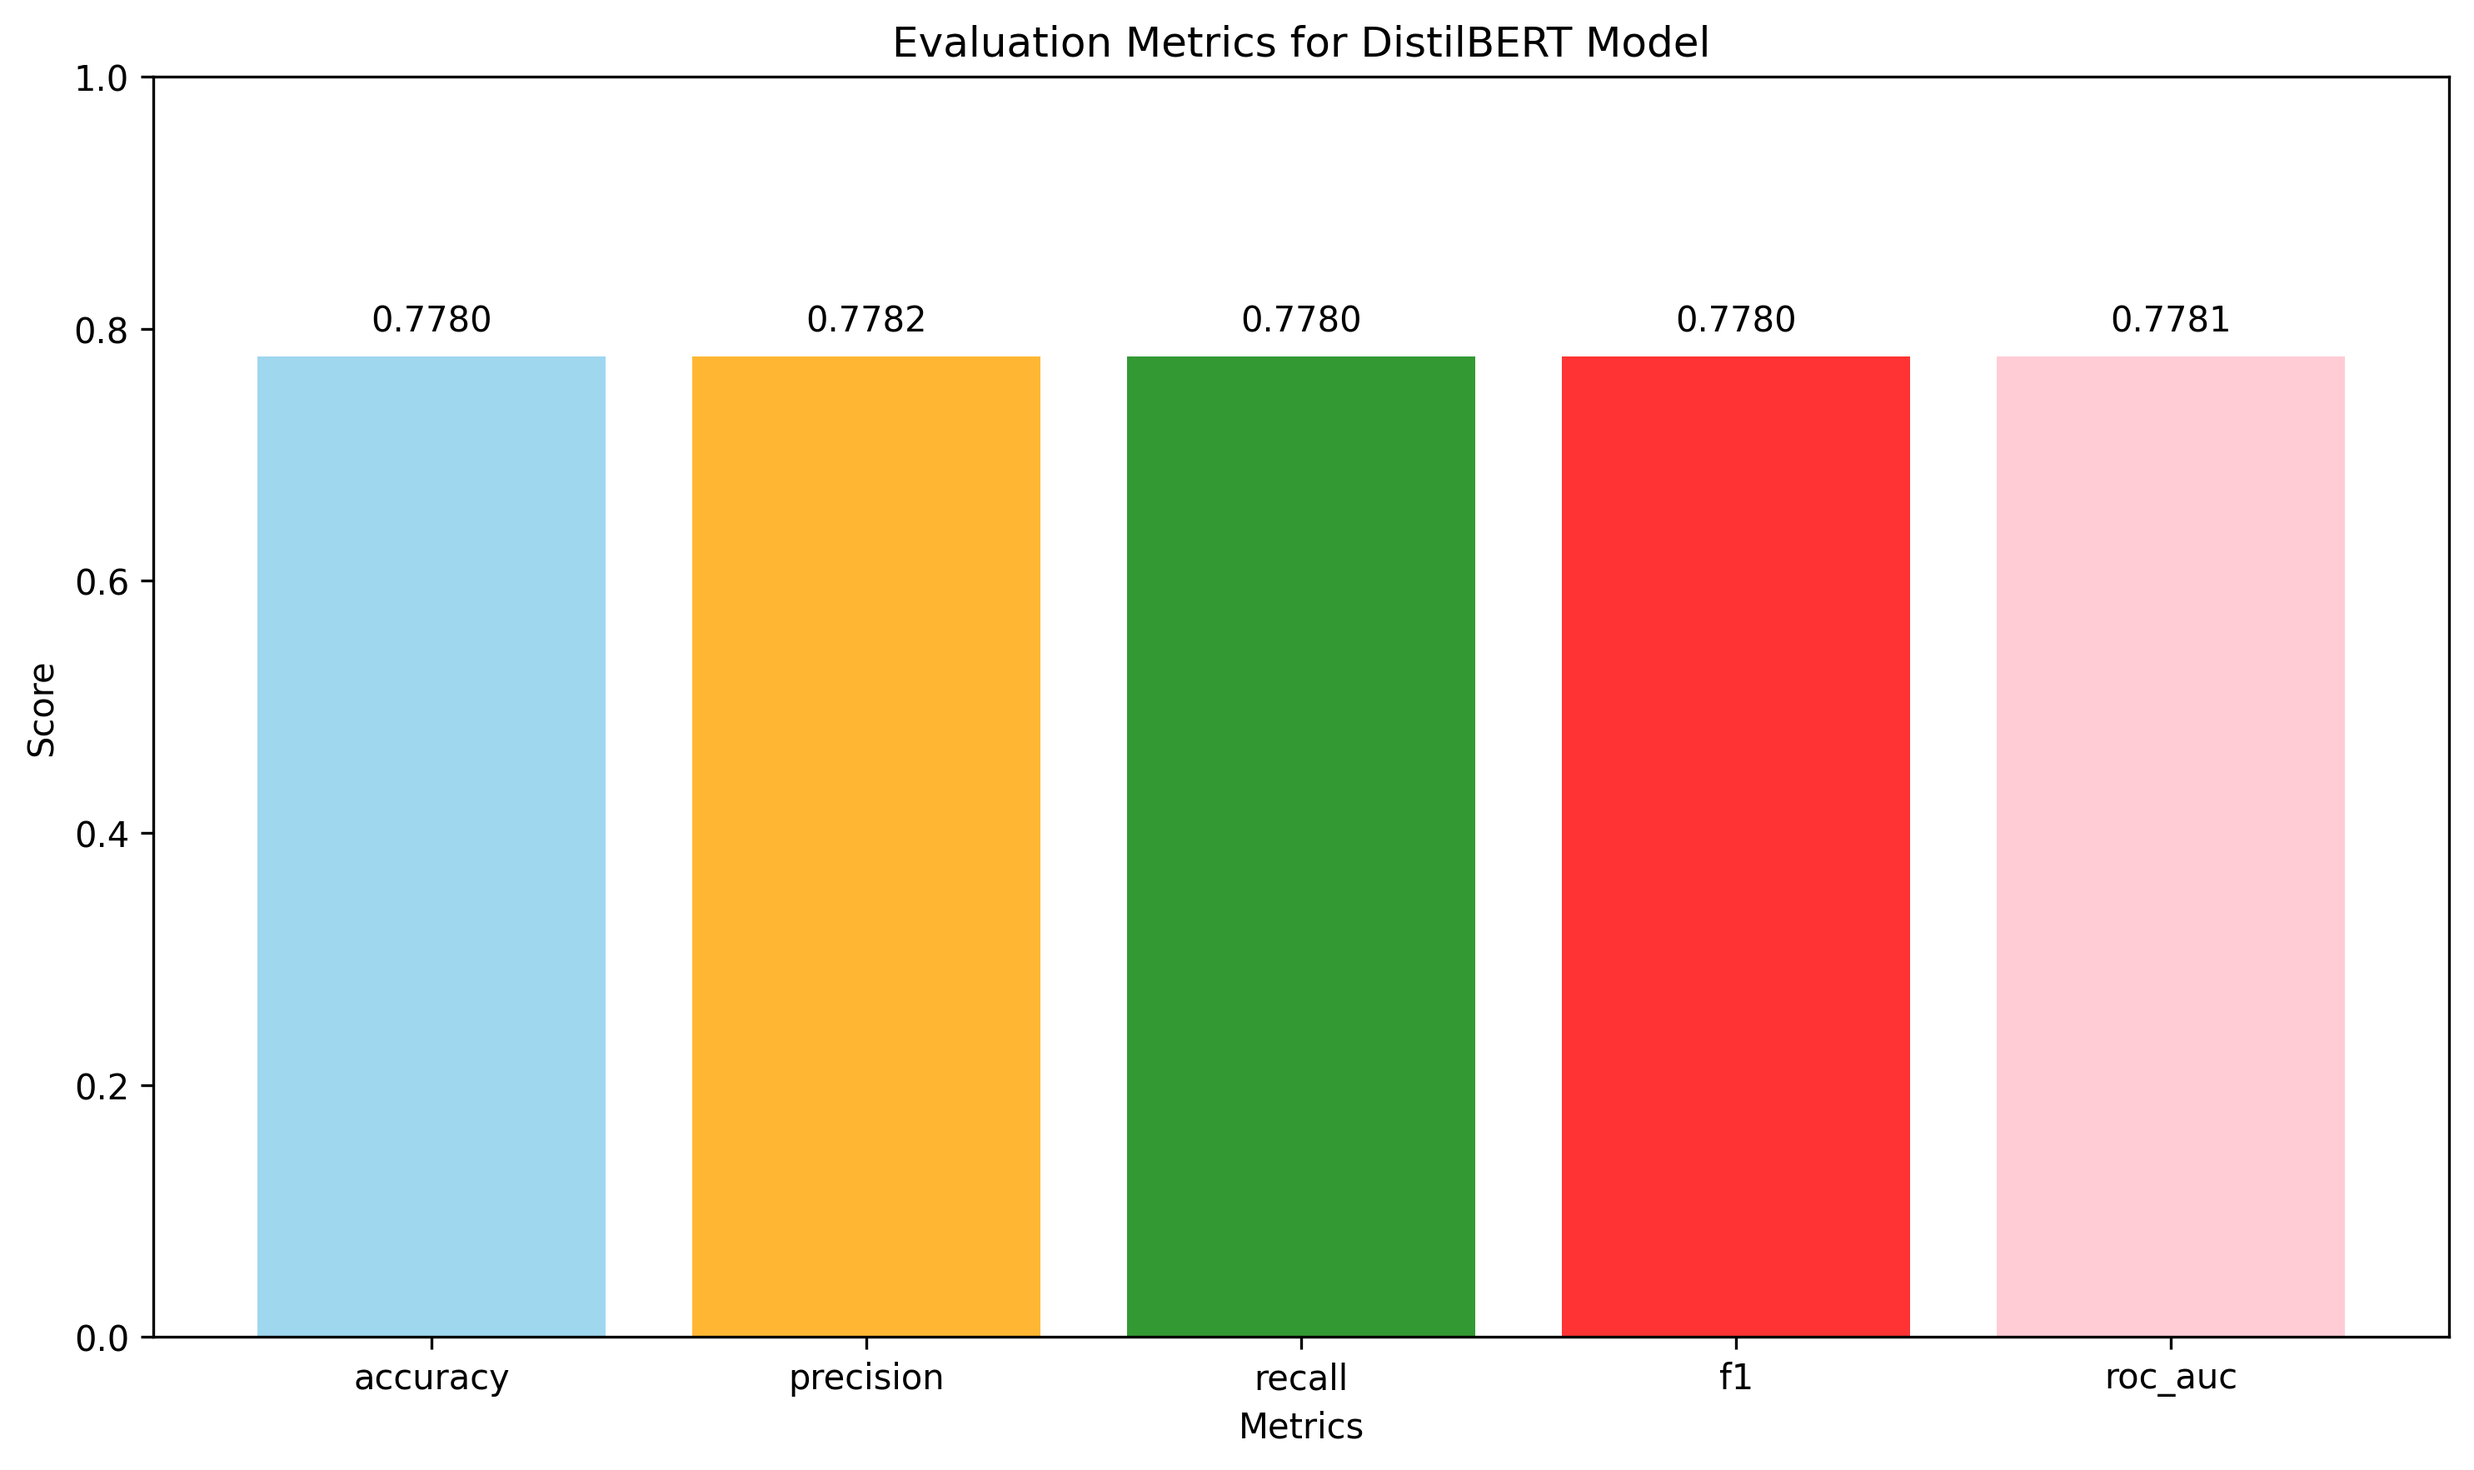
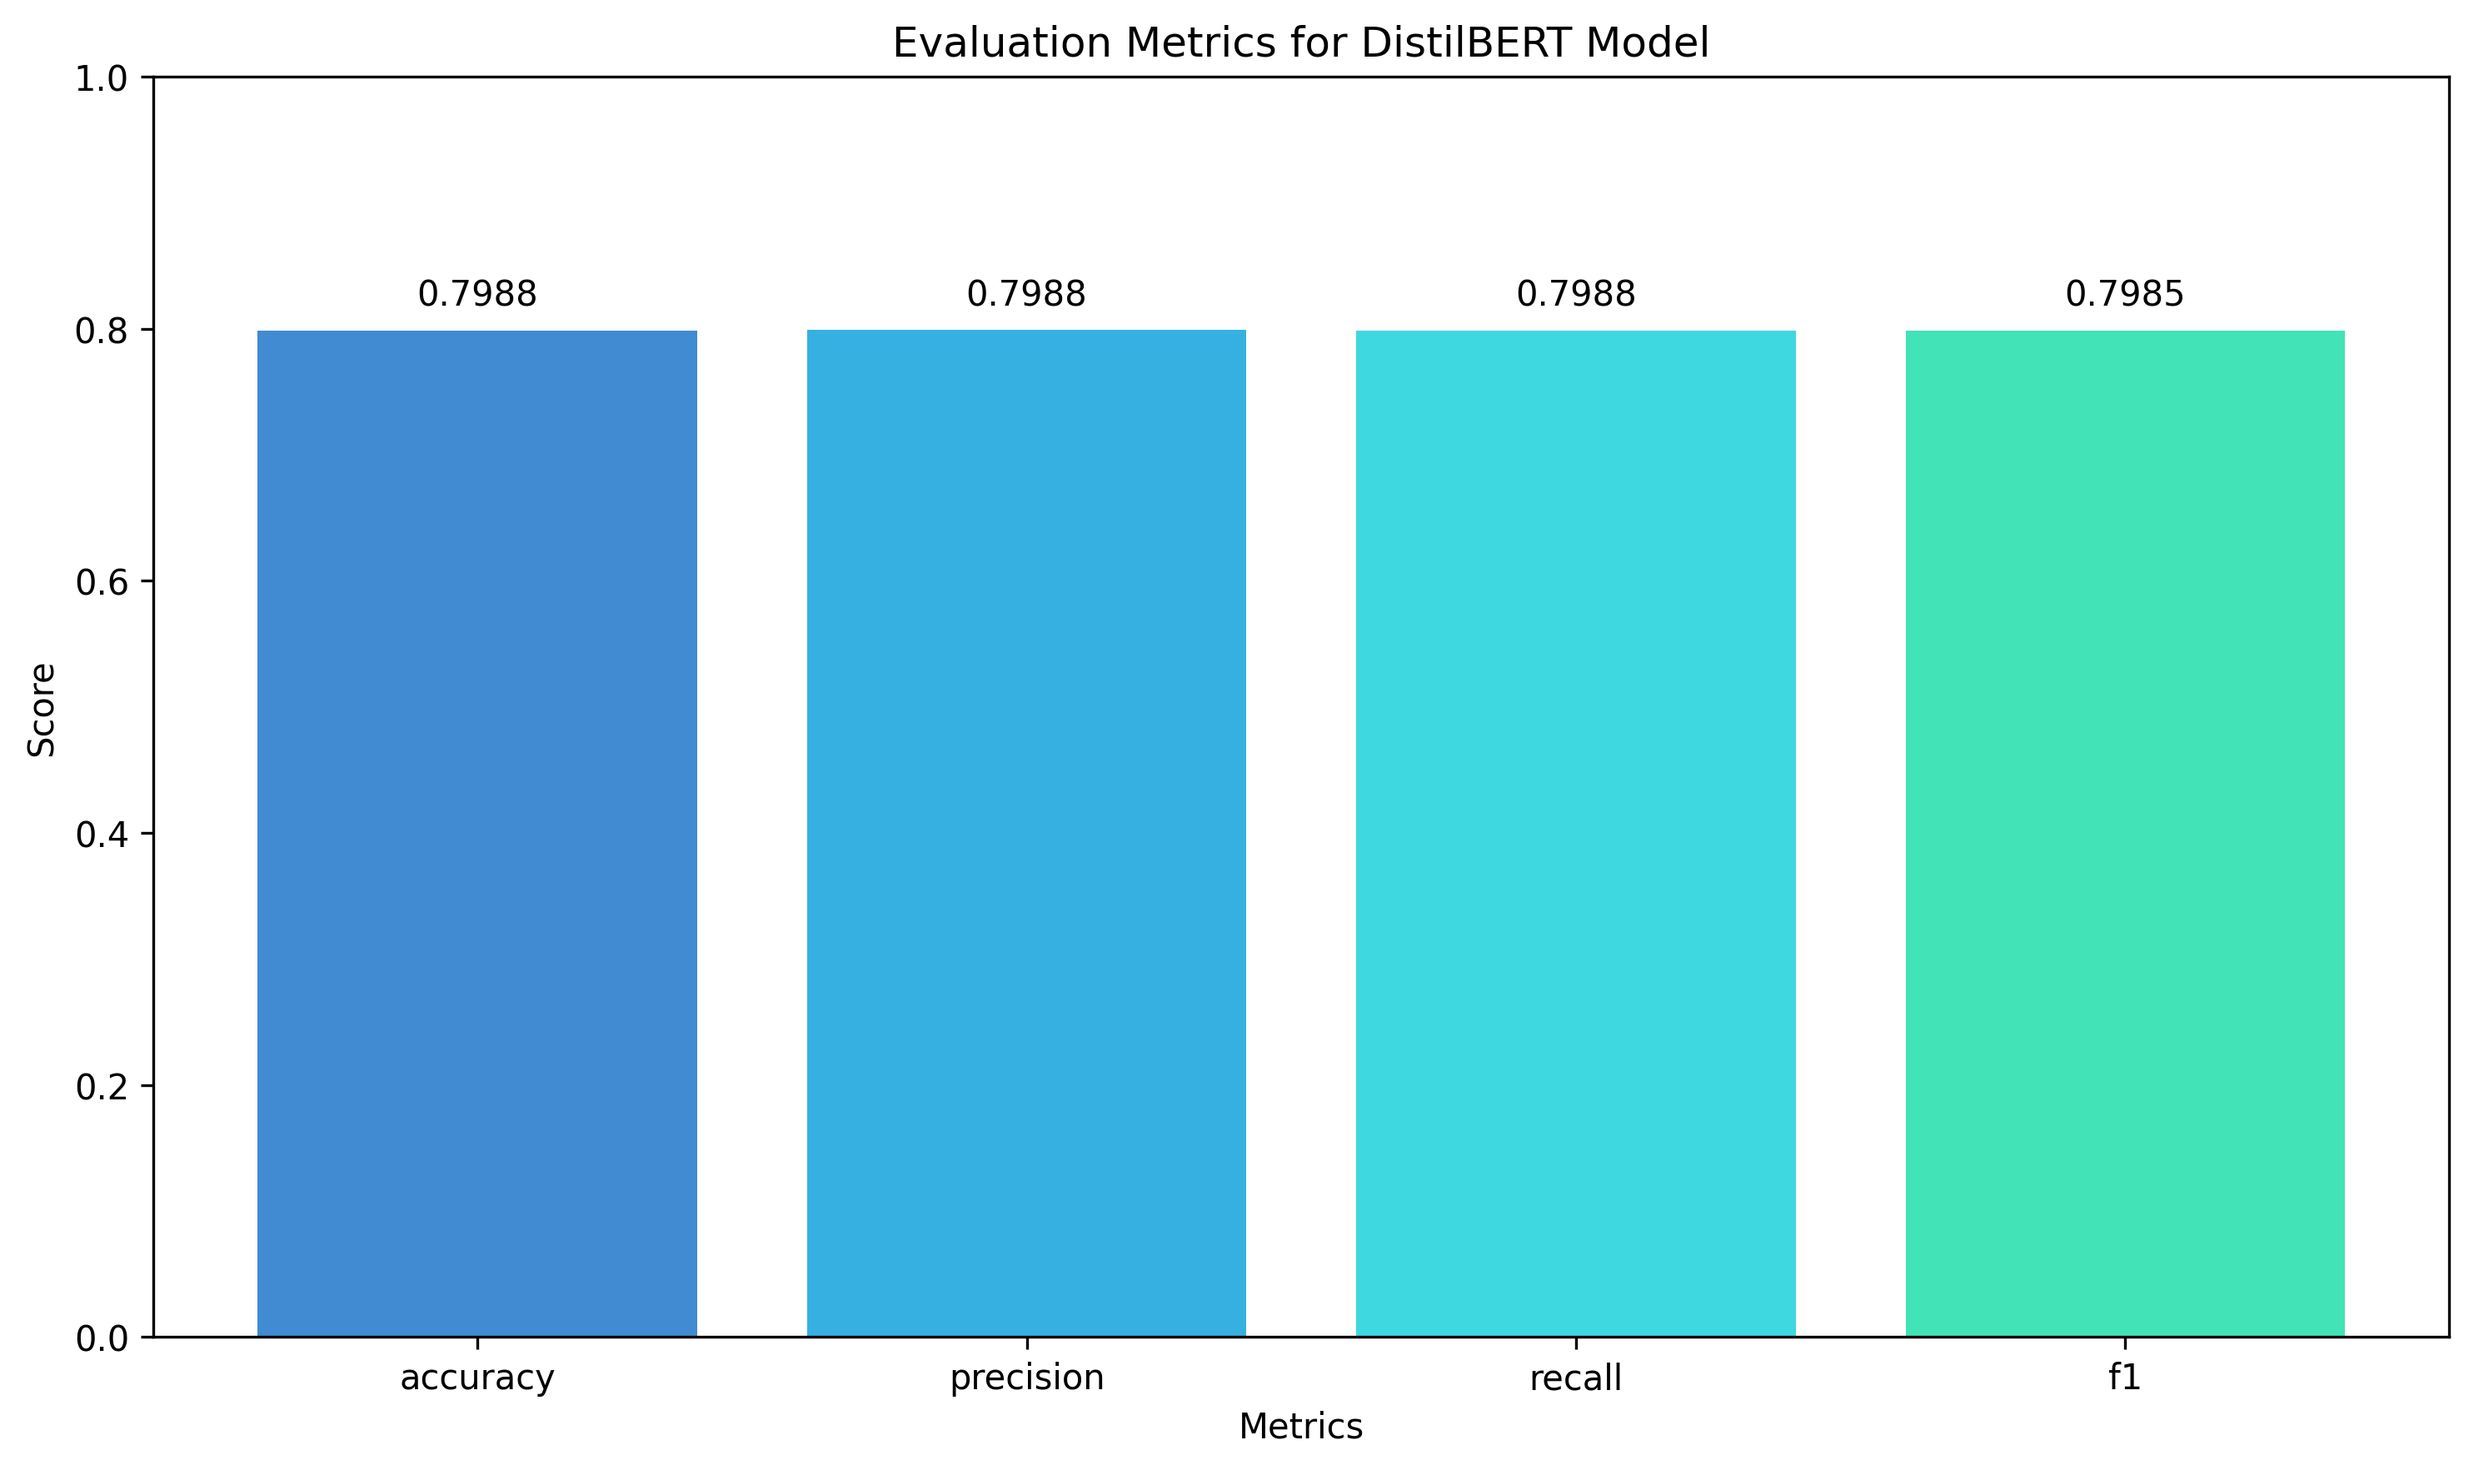
Refactor code structure for improved readability and maintainability

diff --git a/utils.py b/utils.py
@@ -4,12 +4,15 @@ import os
 from sklearn.metrics import f1_score
 import numpy as np
 from Sastrawi.Stemmer.StemmerFactory import StemmerFactory
+from Sastrawi.StopWordRemover.StopWordRemoverFactory import StopWordRemoverFactory
 
 # --- INISIALISASI STEMMER & KAMUS SLANG ---
 
 # Buat stemmer (lakukan sekali saja agar efisien)
 stemmer_factory = StemmerFactory()
 stemmer = stemmer_factory.create_stemmer()
+stopword_factory = StopWordRemoverFactory()
+stopword_remover = stopword_factory.create_stop_word_remover()
 
 # Buat kamus normalisasi slang (bisa Anda kembangkan lebih lanjut)
 slang_dict = {
@@ -37,25 +40,32 @@ def standardize_label(label):
 
 def preprocess_text_advanced(text):
     """
-    Fungsi preprocessing teks yang lebih canggih, mencakup:
+    Fungsi preprocessing lengkap:
     1. Pembersihan dasar (URL, mention, non-alfanumerik)
-    2. Normalisasi kata slang
-    3. Stemming
+    2. Case folding 
+    3. Normalisasi kata slang
+    4. Stemming
+    5. Stopword removal (BARU!)
     """
     # 1. Pembersihan dasar
     text = str(text)
     text = re.sub(r"http\S+", "", text)  # Hapus URL
     text = re.sub(r"@\w+", "", text)     # Hapus mention
-    text = re.sub(r"[^a-zA-Z\s]", "", text) # Hapus karakter non-alfabet (spasi dipertahankan)
+    text = re.sub(r"[^a-zA-Z\s]", "", text) # Hapus karakter non-alfabet
+    
+    # 2. Case folding (BARU!)
     text = text.lower().strip()
 
-    # 2. Normalisasi kata slang
+    # 3. Normalisasi kata slang
     words = text.split()
     normalized_words = [slang_dict.get(word, word) for word in words]
     text = " ".join(normalized_words)
 
-    # 3. Stemming
+    # 4. Stemming
     text = stemmer.stem(text)
+
+    # 5. Stopword removal (BARU!)
+    text = stopword_remover.remove(text)
 
     return text
 

diff --git a/train_indobert_lite.py b/train_indobert_lite.py
@@ -80,11 +80,11 @@ model.save_pretrained("models/indobertlite/final")
 tokenizer.save_pretrained("models/indobertlite/final")
 
 # === VISUALISASI METRIK ===
-metrics = ['accuracy', 'precision', 'recall', 'f1', 'roc_auc']
-values = [results['eval_accuracy'], results['eval_precision'], results['eval_recall'], results['eval_f1'], results['eval_roc_auc']]
+metrics = ['accuracy', 'precision', 'recall', 'f1']
+values = [results['eval_accuracy'], results['eval_precision'], results['eval_recall'], results['eval_f1']]
 
 plt.figure(figsize=(10, 6))
-plt.bar(metrics, values, color=['skyblue', 'orange', 'green', 'red', 'pink'], alpha=0.8)
+plt.bar(metrics, values, color=['#106EC6', '#039CDA', '#0CCFD9', '#13DCA5'], alpha=0.8)
 plt.ylim(0, 1)
 plt.title("Evaluation Metrics for IndoBERT Lite Model")
 plt.ylabel("Score")

diff --git a/train_indobertweet.py b/train_indobertweet.py
@@ -71,11 +71,11 @@ model.save_pretrained("models/indobertweet/final")
 tokenizer.save_pretrained("models/indobertweet/final")
 
 # === VISUALISASI METRIK ===
-metrics = ['accuracy', 'precision', 'recall', 'f1', 'roc_auc']
-values = [results['eval_accuracy'], results['eval_precision'], results['eval_recall'], results['eval_f1'], results['eval_roc_auc']]
+metrics = ['accuracy', 'precision', 'recall', 'f1']
+values = [results['eval_accuracy'], results['eval_precision'], results['eval_recall'], results['eval_f1']]
 
 plt.figure(figsize=(10, 6))
-plt.bar(metrics, values, color=['skyblue', 'orange', 'green', 'red', 'pink'], alpha=0.8)
+plt.bar(metrics, values, color=['#106EC6', '#039CDA', '#0CCFD9', '#13DCA5'], alpha=0.8)
 plt.ylim(0, 1)
 plt.title("Evaluation Metrics for IndoBERTweet Model")
 plt.ylabel("Score")

diff --git a/train_distilbert.py b/train_distilbert.py
@@ -76,11 +76,11 @@ model.save_pretrained("models/distilbert/final")
 tokenizer.save_pretrained("models/distilbert/final")
 
 # Visualize evaluation results
-metrics = ['accuracy', 'precision', 'recall', 'f1', 'roc_auc']
-values = [results['eval_accuracy'], results['eval_precision'], results['eval_recall'], results['eval_f1'], results['eval_roc_auc']]
+metrics = ['accuracy', 'precision', 'recall', 'f1']
+values = [results['eval_accuracy'], results['eval_precision'], results['eval_recall'], results['eval_f1']]
 
 plt.figure(figsize=(10, 6))
-plt.bar(metrics, values, color=['skyblue', 'orange', 'green', 'red', 'pink'], alpha=0.8)
+plt.bar(metrics, values, color=['#106EC6', '#039CDA', '#0CCFD9', '#13DCA5'], alpha=0.8)
 plt.ylim(0, 1)
 plt.title("Evaluation Metrics for DistilBERT Model")
 plt.ylabel("Score")

diff --git a/train_bert.py b/train_bert.py
@@ -76,11 +76,11 @@ model.save_pretrained("models/bert/final")
 tokenizer.save_pretrained("models/bert/final")
 
 # Visualize evaluation results
-metrics = ['accuracy', 'precision', 'recall', 'f1', 'roc_auc']
-values = [results['eval_accuracy'], results['eval_precision'], results['eval_recall'], results['eval_f1'], results['eval_roc_auc']]
+metrics = ['accuracy', 'precision', 'recall', 'f1']
+values = [results['eval_accuracy'], results['eval_precision'], results['eval_recall'], results['eval_f1']]
 
 plt.figure(figsize=(10, 6))
-plt.bar(metrics, values, color=['skyblue', 'orange', 'green', 'red', 'pink'], alpha=0.8)
+plt.bar(metrics, values, color=['#106EC6', '#11A1C3', '#039CDA', '#13DCA5'], alpha=0.8)
 plt.ylim(0, 1)
 plt.title("Evaluation Metrics for BERT Model")
 plt.ylabel("Score")

diff --git a/evaluate_indobertweet_bilstm.py b/evaluate_indobertweet_bilstm.py
@@ -192,7 +192,7 @@ def save_evaluation_results(true_labels, predictions, train_losses, val_losses, 
     }
     
     plt.figure(figsize=(10, 6))
-    bars = plt.bar(metrics.keys(), metrics.values(), color=['#2196F3', '#4CAF50', '#FFC107', '#E91E63'])
+    bars = plt.bar(metrics.keys(), metrics.values(), color=['#106EC6', '#11A1C3', '#039CDA', '#13DCA5'])
     plt.ylim(0, 1.0)
     plt.title('Metrik Klasifikasi - IndoBERTweet + BiLSTM')
     plt.ylabel('Nilai')
